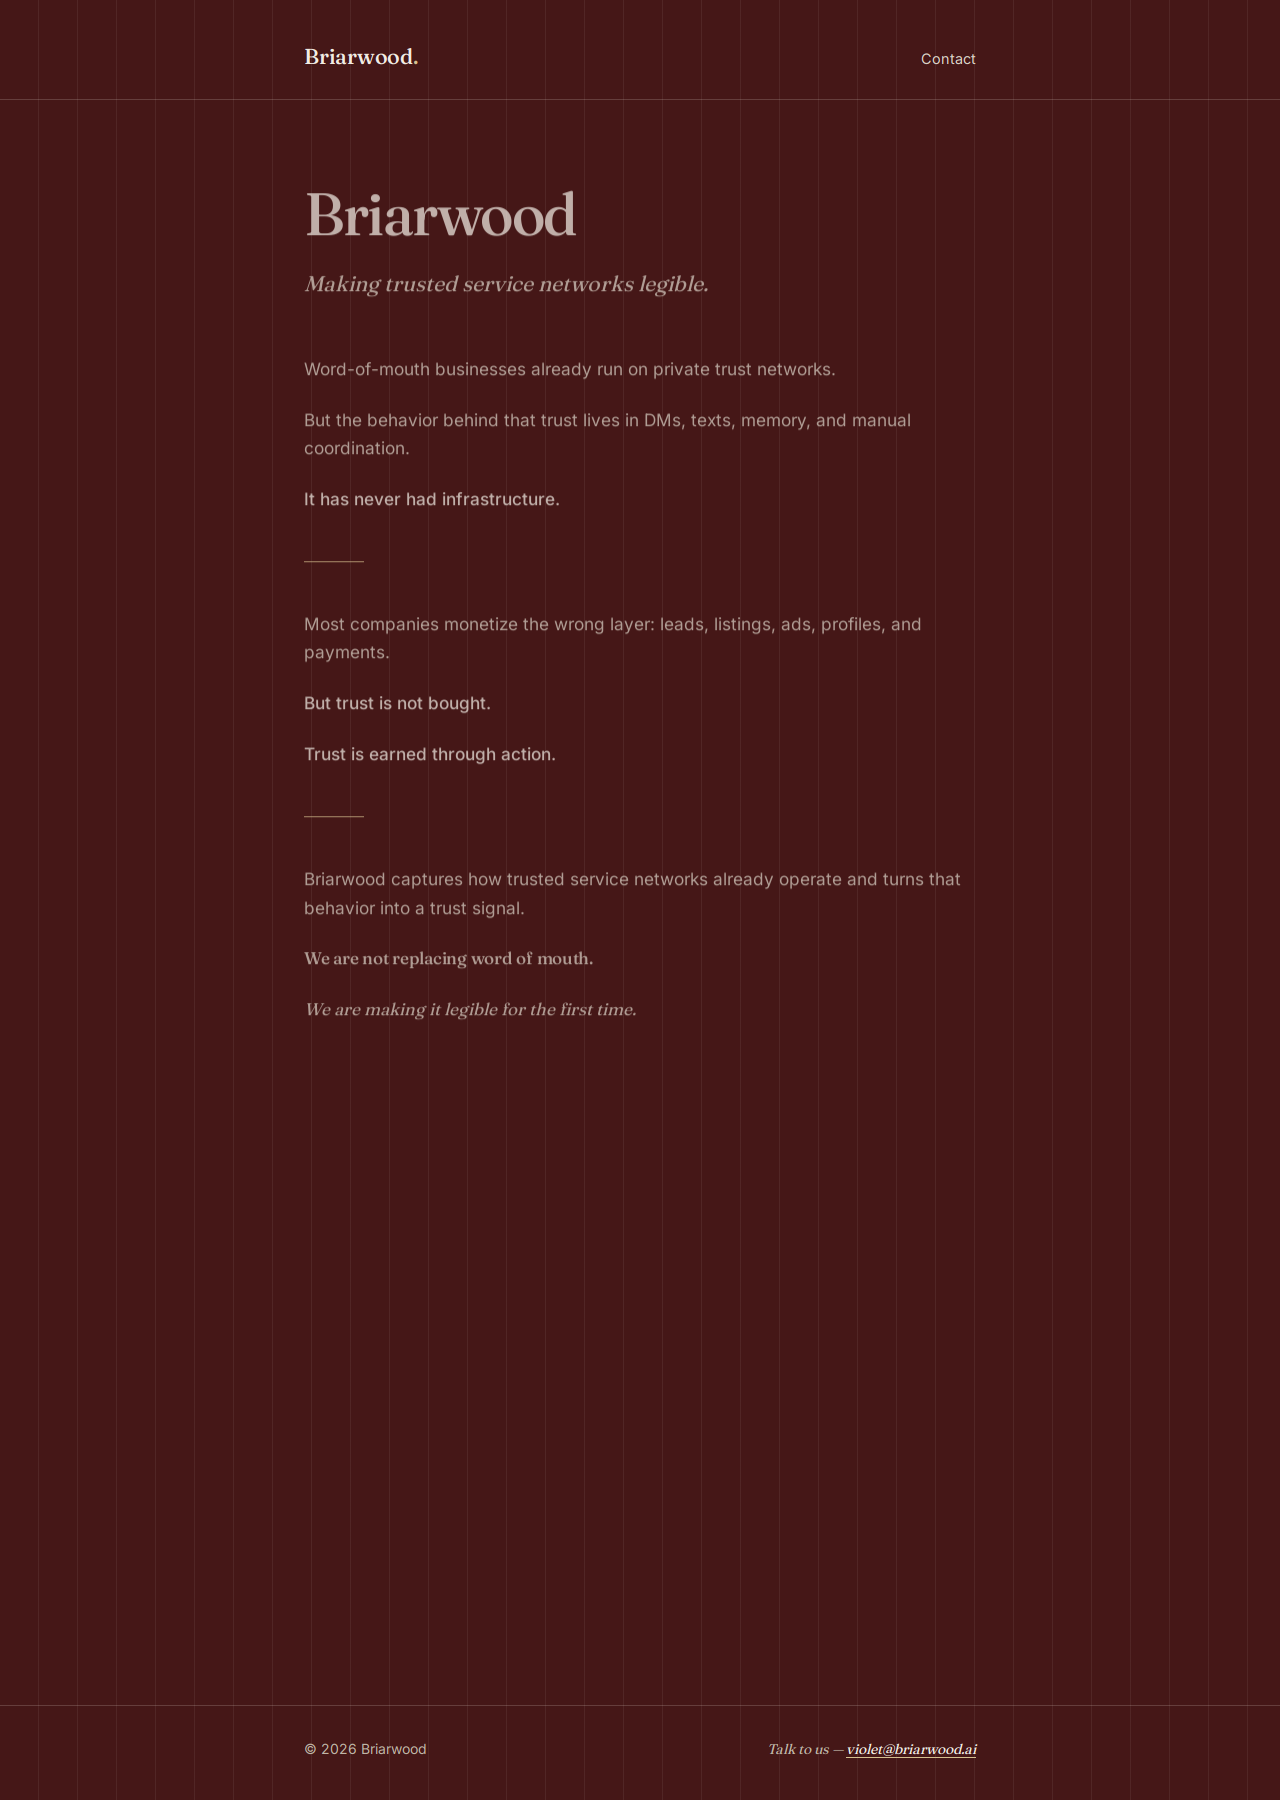
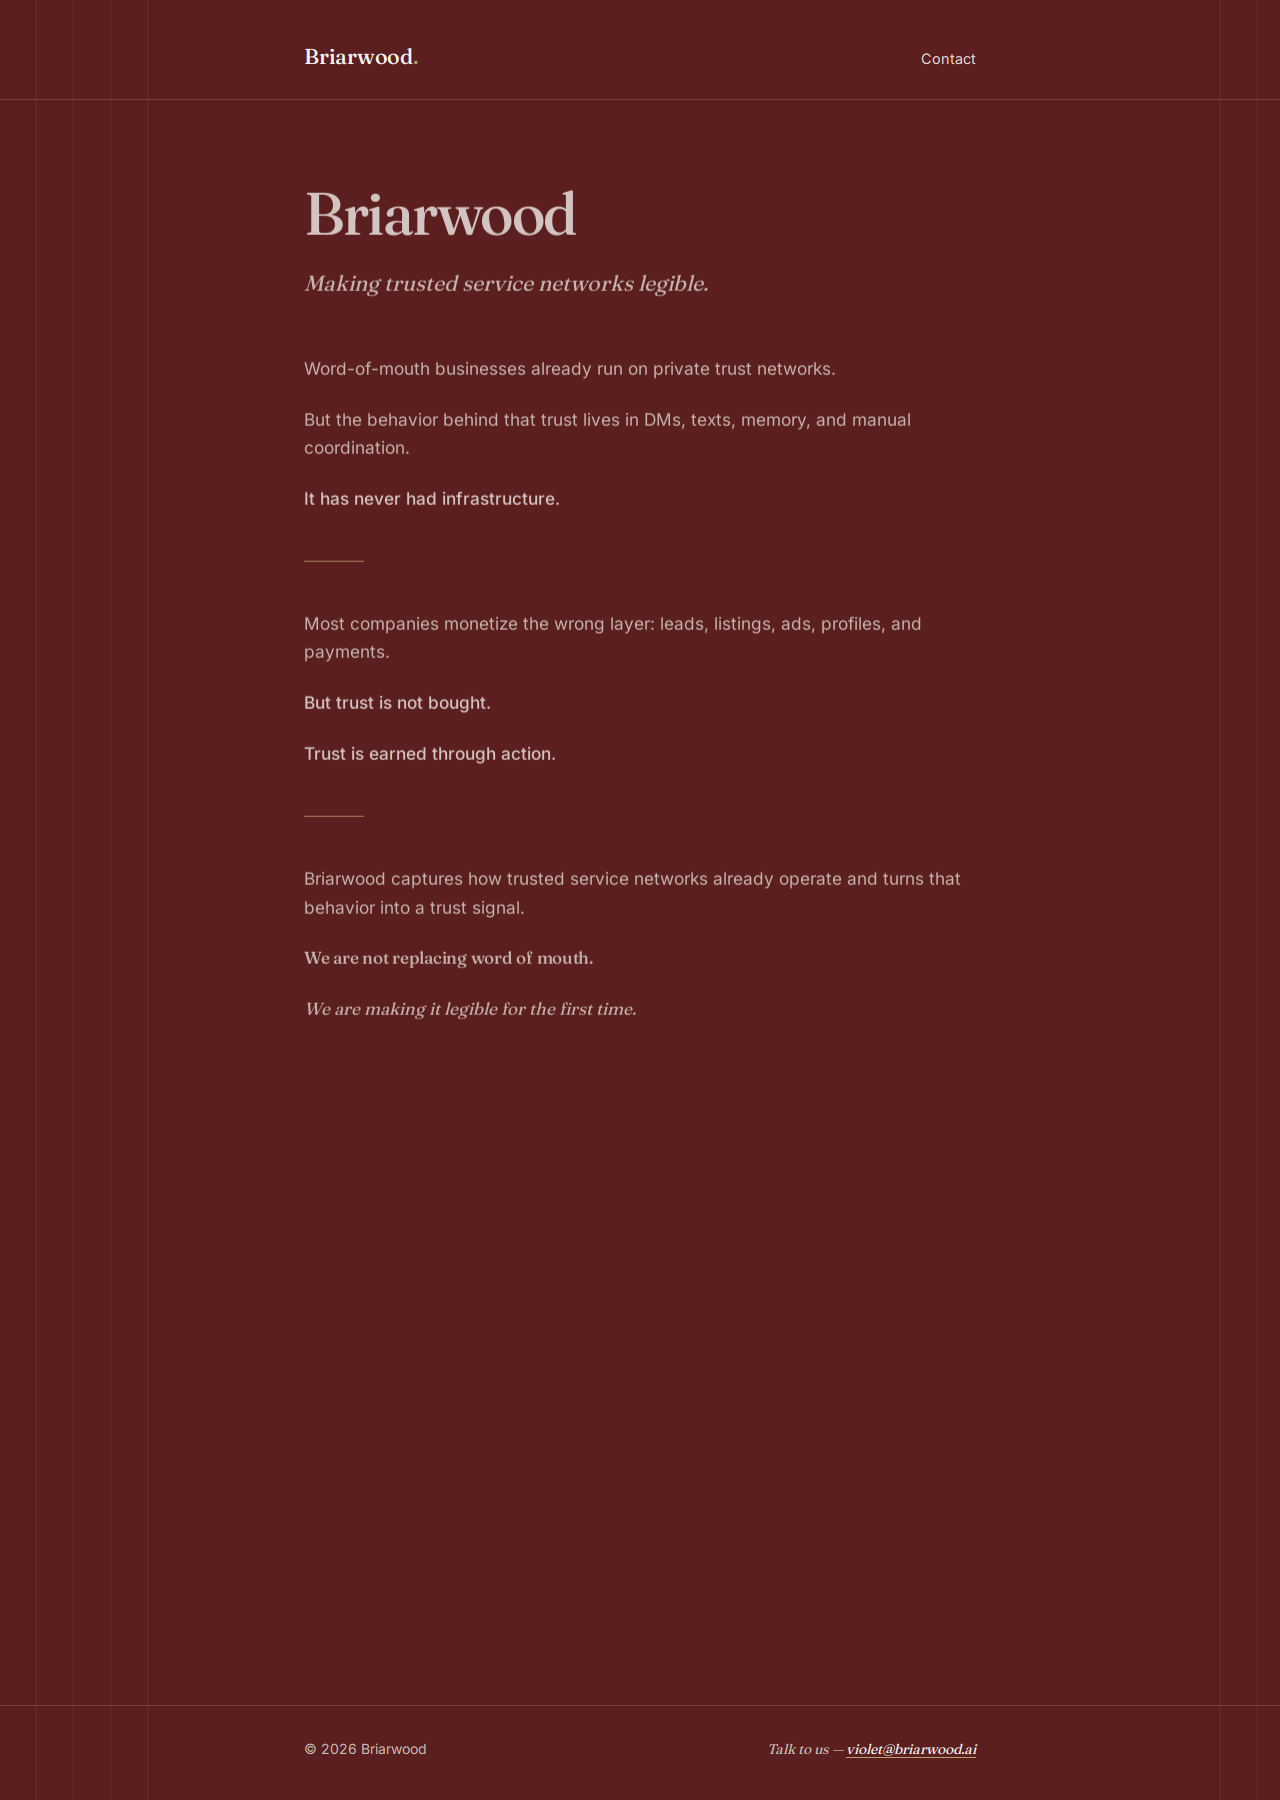
Adjust the website's pinstripe pattern and color scheme for a refined look
Update CSS variables for color palette and adjust repeating linear gradient for tighter pinstripes, along with metadata and screenshot updates.

Replit-Commit-Author: Agent
Replit-Commit-Session-Id: 009ee89d-49d3-4709-8368-a0944dae4585
Replit-Commit-Checkpoint-Type: full_checkpoint
Replit-Commit-Event-Id: 9a40f66e-d945-4fcd-b9a0-e74fe317d33b
Replit-Commit-Screenshot-Url: https://storage.googleapis.com/screenshot-production-us-central1/e8599704-1e72-4097-8c86-37ef455a3ec6/009ee89d-49d3-4709-8368-a0944dae4585/TP9DBTt
Replit-Helium-Checkpoint-Created: true

Changed region(s): [[0.25, 0.3422, 0.2812, 0.3733]]

diff --git a/briarwood-landing/index.html b/briarwood-landing/index.html
@@ -21,15 +21,15 @@
 
 <style>
 :root {
-  --bg: hsl(0 50% 18%);
-  --surface: hsl(0 50% 22%);
-  --cream: hsl(36 30% 92%);
-  --ink: hsl(36 30% 92%);
-  --muted-ink: hsl(36 22% 82%);
-  --faint-ink: hsl(36 16% 70%);
-  --brass: hsl(42 45% 70%);
-  --oxblood: hsl(0 50% 18%);
-  --hairline: hsla(36, 30%, 92%, 0.18);
+  --bg: hsl(0 50% 24%);
+  --surface: hsl(0 50% 28%);
+  --cream: hsl(36 24% 95%);
+  --ink: hsl(36 24% 95%);
+  --muted-ink: hsl(36 20% 86%);
+  --faint-ink: hsl(36 14% 74%);
+  --brass: hsl(42 33% 57%);
+  --oxblood: hsl(0 50% 24%);
+  --hairline: hsla(36, 24%, 95%, 0.16);
 }
 
 * { box-sizing: border-box; margin: 0; padding: 0; }
@@ -41,9 +41,9 @@ body {
   background-image: repeating-linear-gradient(
     to right,
     transparent 0,
-    transparent 38px,
-    hsla(36, 30%, 92%, 0.07) 38px,
-    hsla(36, 30%, 92%, 0.07) 39px
+    transparent 18px,
+    hsla(36, 24%, 95%, 0.06) 18px,
+    hsla(36, 24%, 95%, 0.06) 18.5px
   );
   color: var(--ink);
   font-family: 'Inter', -apple-system, BlinkMacSystemFont, sans-serif;
